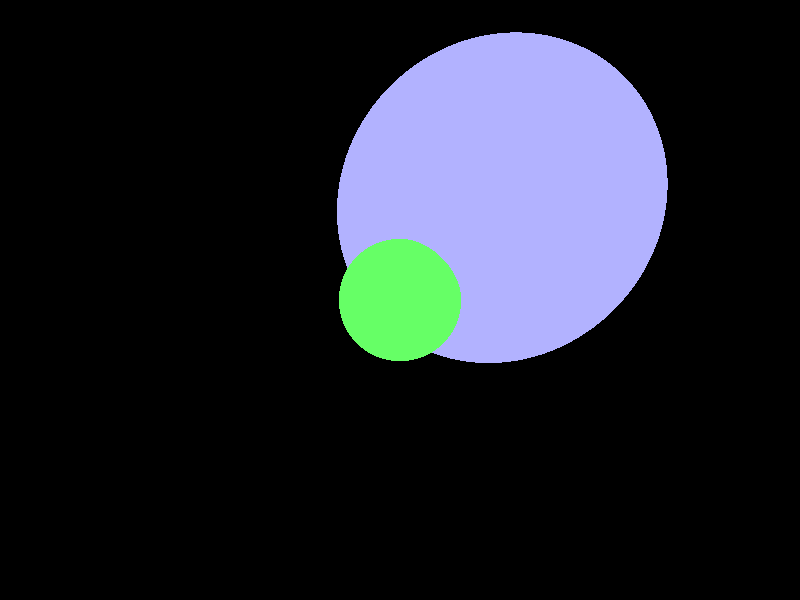
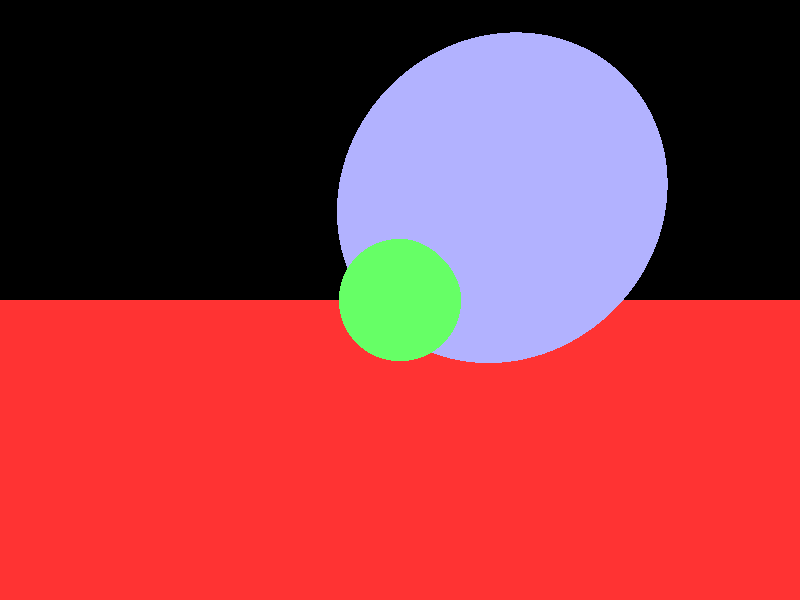
add a plane

diff --git a/src/scene.rs b/src/scene.rs
@@ -2,6 +2,8 @@ use std::ops::{Add, AddAssign};
 use crate::math::{Point, Vector3};
 use crate::rendering::{Ray, Intersectable};
 
+pub type Distance = f64;
+
 #[derive(Debug, PartialEq, Default, Clone, Copy)]
 pub struct Color {
     pub r: f32,
@@ -44,19 +46,26 @@ impl AddAssign for Color {
 #[derive(Debug, Clone)]
 pub struct Sphere {
     pub center: Point,
-    pub radius: f64,
+    pub radius: Distance,
+    pub color: Color,
+}
+
+#[derive(Debug, Clone)]
+pub struct Plane {
+    pub pos: Point,
+    pub normal: Vector3,
     pub color: Color,
 }
 
 pub struct Scene {
     pub width: u32,
     pub height: u32,
-    pub fov: f64,
+    pub fov: Distance,
     pub items: Vec<Box<Intersectable>>,
 }
 
 impl Intersectable for Sphere {
-    fn intersect(&self, ray: &Ray) -> Option<f64> {
+    fn intersect(&self, ray: &Ray) -> Option<Distance> {
         // S: 球心 O: ray起点 I: 交点（如果有） Q: 从S引垂线交ray于Q
         let os: Vector3 = self.center - ray.origin;
         // 为了算球心到射线的距离d，先算另一个直角边。它的长度是os在ray上的投影
@@ -81,4 +90,24 @@ impl Intersectable for Sphere {
     fn get_color(&self) -> Color {
         self.color
     }
+}
+
+impl Intersectable for Plane {
+    fn intersect(&self, ray: &Ray) -> Option<Distance> {
+        let normal = &self.normal;
+        let denom = normal.dot(&ray.direction);
+        if denom > 1e-6 {
+            let v = self.pos - ray.origin;
+            let distance = v.dot(&normal) / denom;
+            if distance >= 0.0 {
+                return Some(distance);
+            }
+        }
+        None
+    }
+
+    fn get_color(&self) -> Color {
+        self.color
+    }
+
 }

diff --git a/src/main.rs b/src/main.rs
@@ -4,9 +4,9 @@ mod math;
 mod rendering;
 mod scene;
 
-use math::Point;
+use math::{Point, Vector3};
 use rendering::{cast_ray, render, Ray};
-use scene::{Color, Scene, Sphere};
+use scene::{Color, Plane, Scene, Sphere};
 
 fn main() {
     println!("Hello, world!");
@@ -43,6 +43,19 @@ fn test_can_render_scene() {
                     r: 0.7,
                     g: 0.7,
                     b: 1.0,
+                },
+            }),
+            Box::new(Plane {
+                pos: Point {
+                    x: 0.0,
+                    y: -2.0,
+                    z: -5.0,
+                },
+                normal: Vector3::new(0.0, -1.0, 0.0).normalize(),
+                color: Color {
+                    r: 1.0,
+                    g: 0.2,
+                    b: 0.2,
                 },
             }),
         ],
